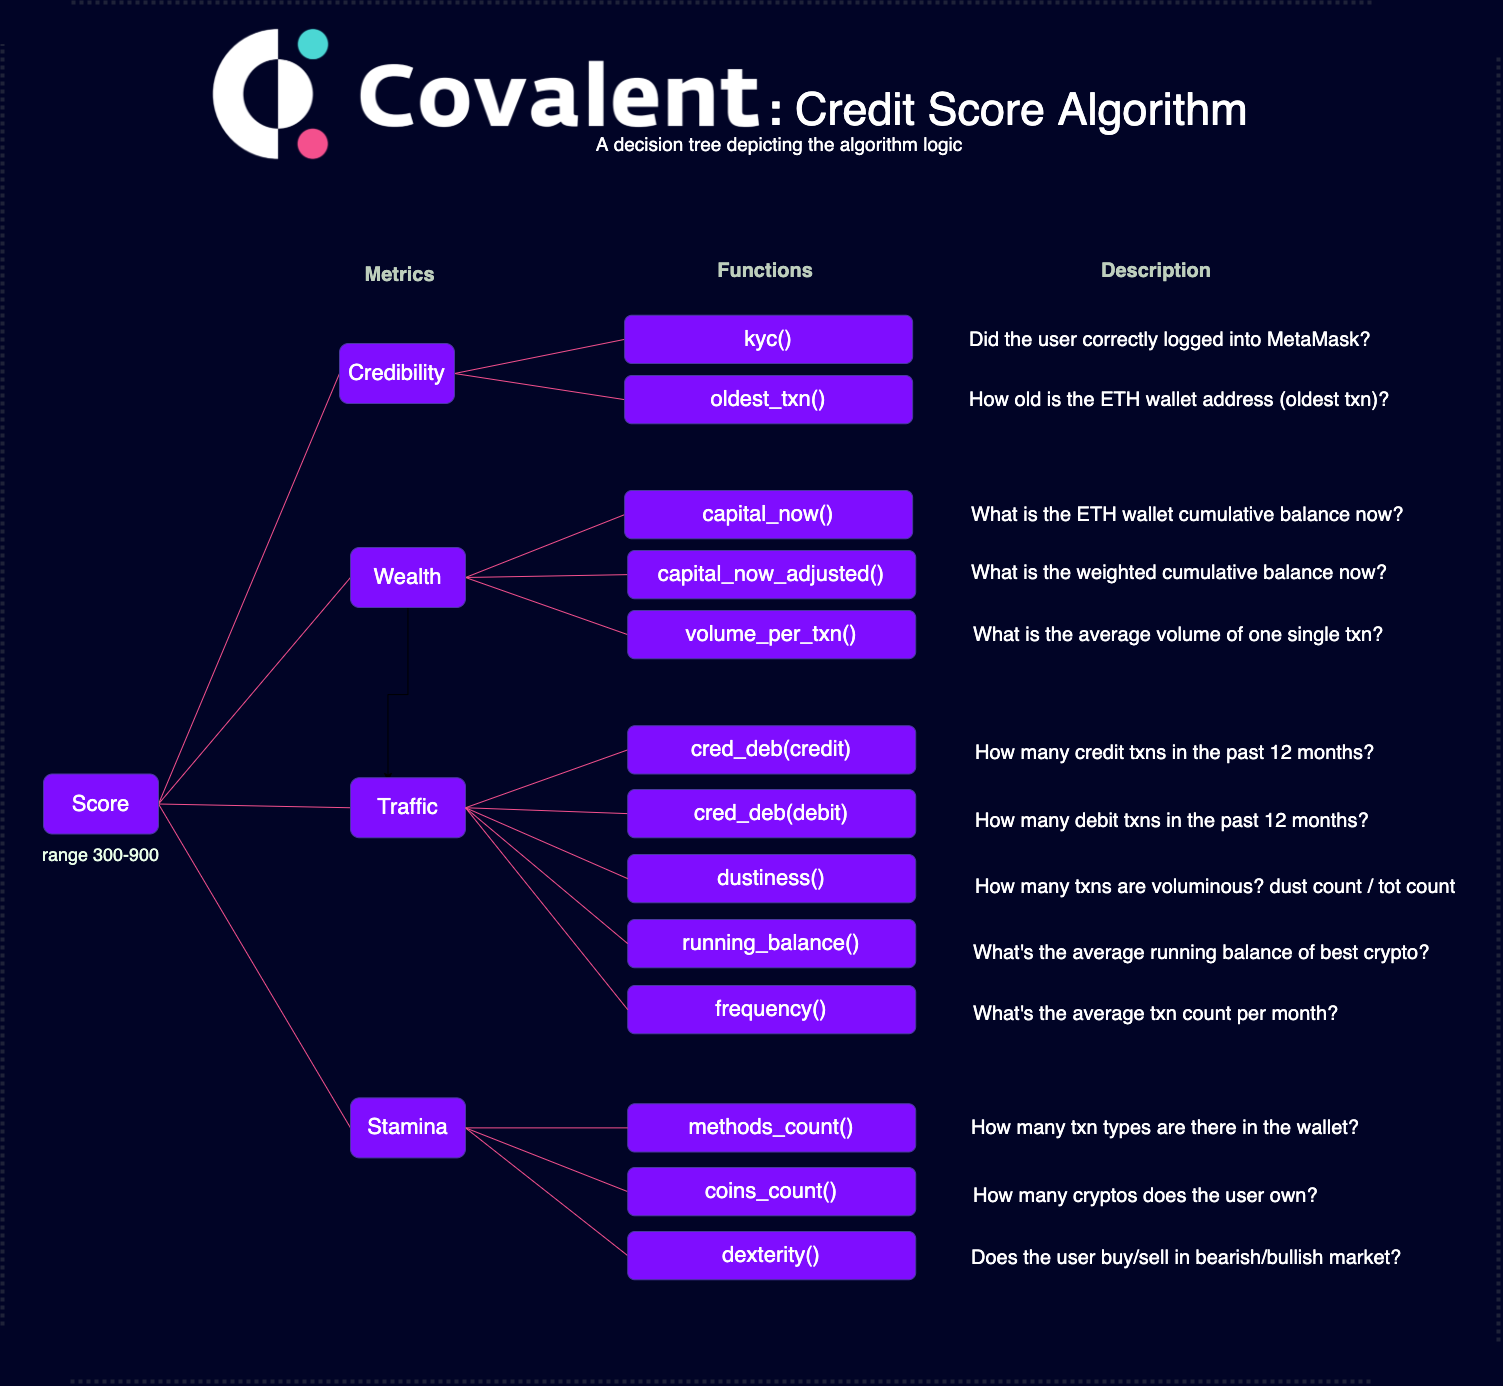
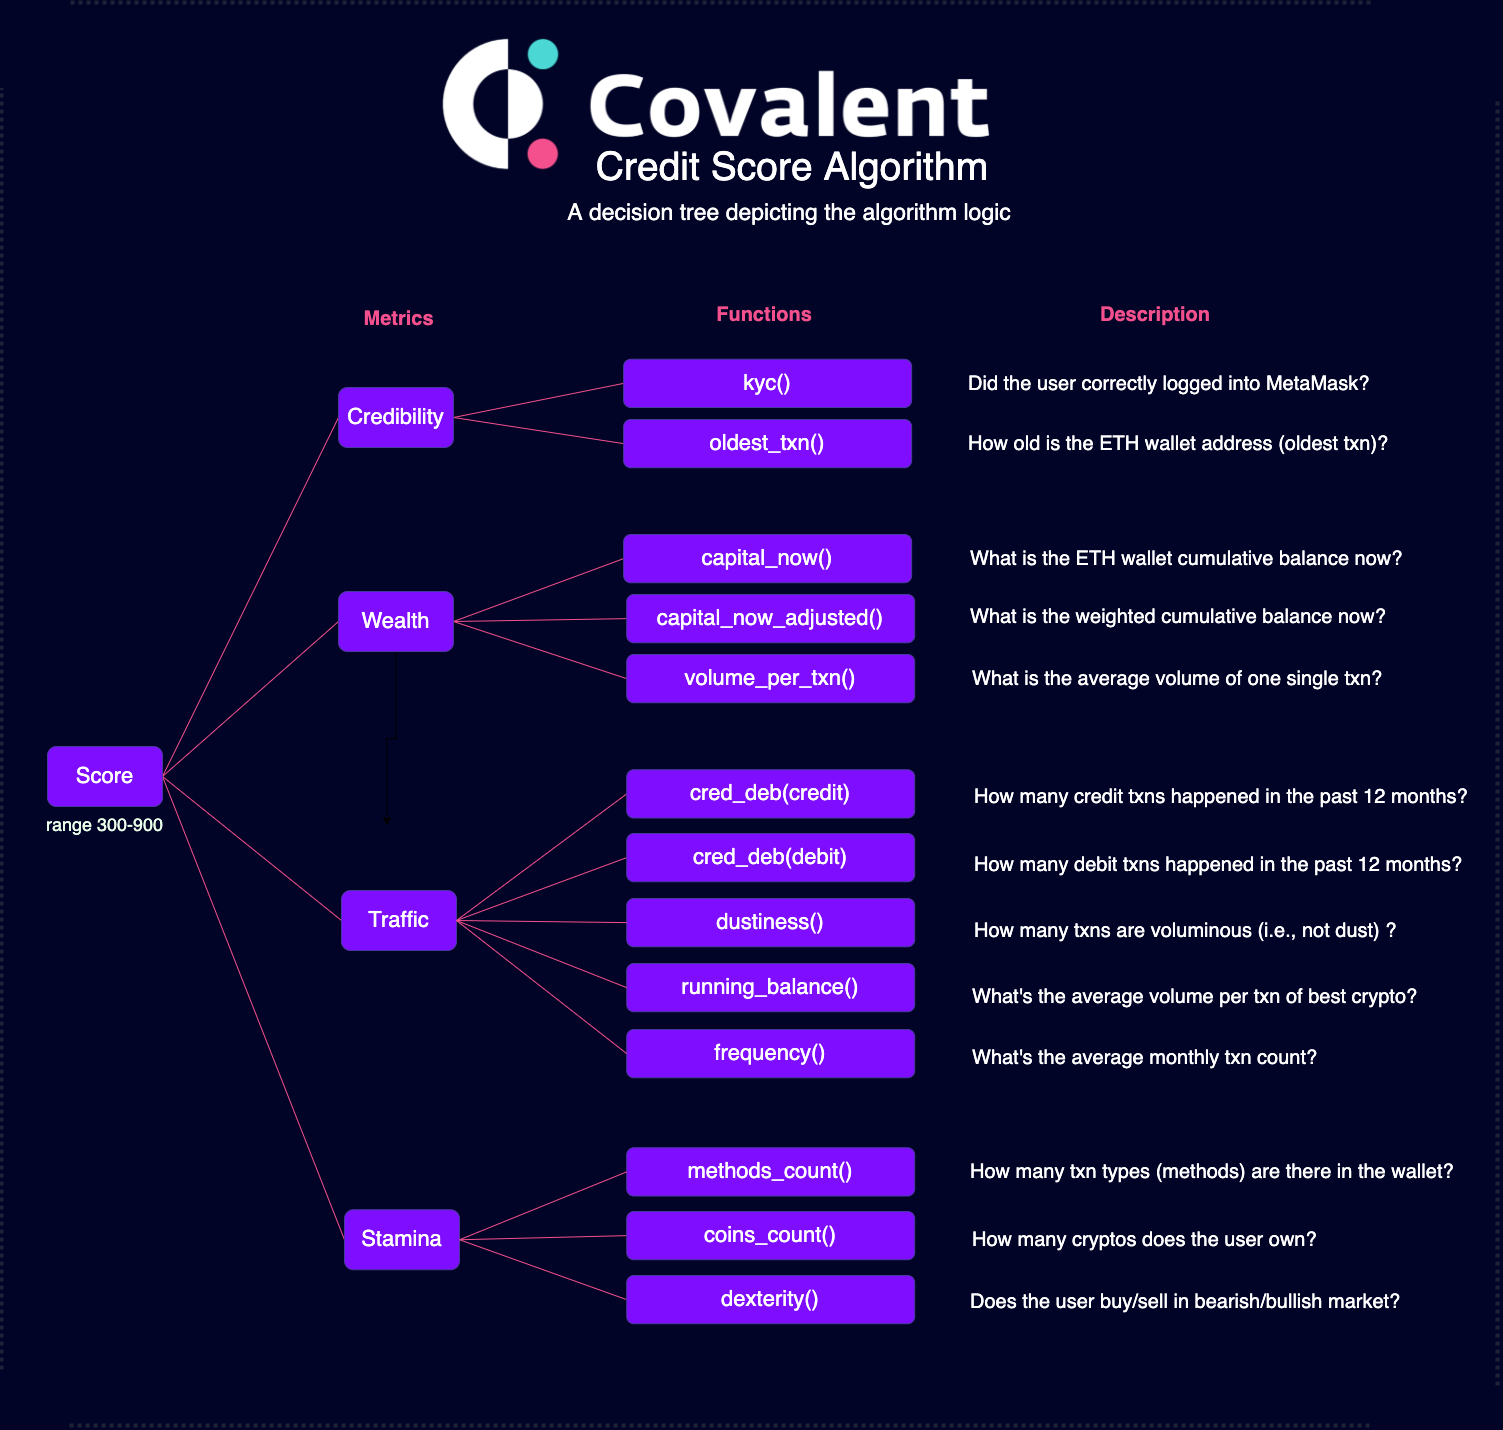
#17 docstrings + risk in main.py Except

diff --git a/support/metrics_covalent.py b/support/metrics_covalent.py
@@ -38,7 +38,7 @@ def swiffer_duster(txn, feedback):
 def purge_portfolio(portfolio, feedback):
     '''
     Description:
-        remove 'dusty' tokens from portfolio. That is, we xonsider only those tokens 
+        remove 'dusty' tokens from portfolio. That is, we consider only those tokens 
         that had a closing day balance of >$50 for at least 3 days in the last month
 
     Parameters:
@@ -53,7 +53,6 @@ def purge_portfolio(portfolio, feedback):
         if portfolio['quote_currency'] != 'USD':
             raise Exception('quote_currency should be USD')
         else:
-            print(len(portfolio['items']))
             counts = list()
             for a in portfolio['items']:
                 count = 0
@@ -70,7 +69,6 @@ def purge_portfolio(portfolio, feedback):
                 if counts[i] < 3:
                     portfolio['items'].pop(i)
 
-            print(len(portfolio['items']))
         return portfolio
             
     except Exception as e:
@@ -119,12 +117,12 @@ def credibility_kyc(balances, txn, feedback):
         feedback (dict): score feedback
 
     Returns:
-        score (float): 1 if KYC'ed and 0
+        score (float): 1 if KYC'ed and 0 otherwise
         feedback (dict): updated score feedback
     '''
     try:
-        # Assign max score as long as the user owns some credible 
-        # non-zero balance accounts with some transaction history
+        # Assign max score as long as the user owns a
+        # non-zero balance and a credible transaction history
         if txn['items'] and sum([b['quote'] for b in balances['items']]) > 1:
             score = 1
             feedback['credibility']['verified'] = True
@@ -143,7 +141,7 @@ def credibility_kyc(balances, txn, feedback):
 def credibility_oldest_txn(txn, feedback, fico_medians, duration):
     '''
     Description:
-        returns score based on total volume of token owned (USD) now
+        reads the date of the oldest recorded transaction, and rewards a score accondingly
 
     Parameters:
         txn (dict): Covalent class A endpoint 'transactions_v2'
@@ -216,6 +214,7 @@ def wealth_capital_now_adjusted(balances, feedback, erc_rank, fico_medians, volu
     Parameters:
         balances (dict): Covalent class A endpoint 'balances_v2'
         feedback (dict): score feedback
+        erc_rank (dict): ERC tokens and their associated Coinmarketcap rank
         fico_medians (array): score bins
         volume_now (array): bins for the total token volume owned now
 
@@ -344,7 +343,7 @@ def traffic_cred_deb(txn, feedback, operation, count_operations, cred_deb, mtx_t
 
         # except
         else:
-            raise Exception("you apssed an invalid param: accepts only 'credit', 'debit', or 'transfer'")
+            raise Exception("you passed an invalid param: accepts only 'credit', 'debit', or 'transfer'")
 
 
         m = np.digitize(counts, count_operations, right=True)
@@ -392,7 +391,7 @@ def traffic_dustiness(txn, feedback, fico_medians):
 def traffic_running_balance(portfolio, feedback, fico_medians, avg_run_bal, erc_rank):
     '''
     Description:
-        score earned based on the average running balance 
+        score earned based on the average volume per txn
         of your best token over the past 30 days
 
     Parameters:
@@ -400,7 +399,7 @@ def traffic_running_balance(portfolio, feedback, fico_medians, avg_run_bal, erc_
         feedback (dict): score feedback
         fico_medians (array): scoring array
         avg_run_bal (array): bins for avg running balance
-        top_erc (list): list of ERC tokens ranked highest on Coinmarketcap
+        erc_rank (dict): ERC tokens and their associated Coinmarketcap rank
 
     Returns:
         score (float): points earned for the average running 
@@ -451,7 +450,7 @@ def traffic_frequency(txn, feedback, fico_medians, frequency_txn):
         feedback (dict): updated score feedback
     '''
     try:
-        # remove 'dust' transactions from youw dataset
+        # remove 'dust' transactions from your dataset
         txn = swiffer_duster(txn, feedback)
         
         datum = txn['items'][-1]['block_signed_at'].split('T')[0]
@@ -490,7 +489,7 @@ def stamina_methods_count(txn, feedback, fico_medians, count_to_four):
         feedback (dict): updated score feedback
     '''
     try:
-        # remove 'dust' transactions from youw dataset
+        # remove 'dust' transactions from your dataset
         txn = swiffer_duster(txn, feedback)
         methods = {}
 
@@ -508,7 +507,8 @@ def stamina_methods_count(txn, feedback, fico_medians, count_to_four):
                 else:
                     methods['unclassified'] = amount
 
-        methods_count = len([k for k in methods.keys() if methods[k] > 50])
+        # keep only methods with cumulated traded volume > $10 USD
+        methods_count = len([k for k in methods.keys() if methods[k] > 10]) 
         score = fico_medians[np.digitize(methods_count, count_to_four, right=True)]
         feedback['stamina']['unique_methods_count'] = methods_count
 
@@ -568,10 +568,10 @@ def stamina_coins_count(balances, feedback, count_to_four, volume_now, mtx_stami
 def stamina_dexterity(portfolio, feedback, count_to_four, volume_now, mtx_stamina):
     '''
     Description:
-        does this user buy when the market is low and sell when the market is high? 
-        Let's call the operation of buying in bear market and selling in bullish a smart trade
+        does this user buy when the market is bearish and sell when the market is bullish? 
+        Let's define a smart trade to be the operation of either buying in bear market and selling in bullish
         How often do smart trades occur? 
-        How much caputail is traded cumulatives across ALL smart trades?
+        How much capital is traded cumulatively across ALL smart trades?
 
     Parameters:
         portfolio (dict): Covalent class A endpoint 'portfolio_v2'

diff --git a/main.py b/main.py
@@ -158,6 +158,7 @@ async def credit_score_plaid(item: Plaid_Item):
         status_code = 400
         status = 'error'
         score = 0
+        risk = 'undefined'
         message = str(e)
         feedback = {}
 
@@ -317,6 +318,7 @@ async def credit_score_coinbase(item: Coinbase_Item):
         status_code = 400
         status = 'error'
         score = 0
+        risk = 'undefined'
         message = str(e)
         feedback = {}
 
@@ -375,7 +377,7 @@ async def credit_score_coinbase(item: Covalent_Item):
         ic(feedback)
 
        # data fetching
-        txn = covalent_get_transactions('1', item.eth_address, item.covalent_key, False, 10, 0)
+        txn = covalent_get_transactions('1', item.eth_address, item.covalent_key, False, 500, 0)
         balances = covalent_get_balances_or_portfolio('1', item.eth_address, 'balances_v2', item.covalent_key)
         portfolio = covalent_get_balances_or_portfolio('1', item.eth_address, 'portfolio_v2', item.covalent_key)
         
@@ -439,9 +441,9 @@ async def credit_score_coinbase(item: Covalent_Item):
         status_code = 400
         status = 'error'
         score = 0
+        risk = 'undefined'
         message = str(e)
         feedback = {}
-        risk = 'undefined'
 
     finally:
         timestamp = datetime.now(timezone.utc).strftime(
